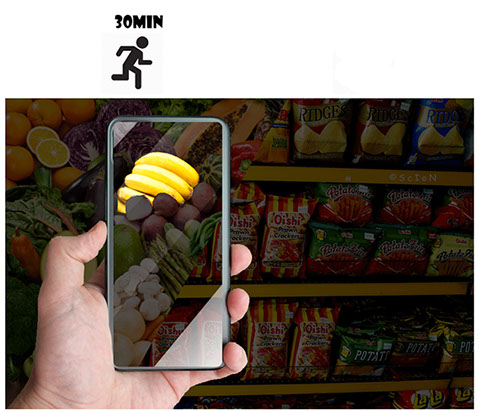
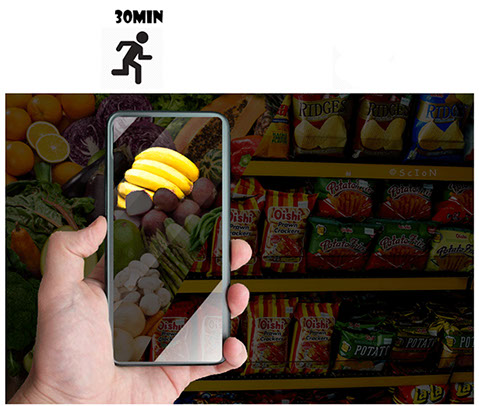
no message

diff --git a/css/healthy-food-assistant.css b/css/healthy-food-assistant.css
@@ -1,1 +1,1 @@
-.version.healthy_food_assistant{color:#0000F5;background-color:#6F653F;}#page{z-index:1;min-height:438px;background-image:none;border-width:0px;border-color:#000000;background-color:transparent;padding-bottom:62px;width:100%;max-width:1920px;margin-left:auto;margin-right:auto;}#pu3408-4{z-index:5;width:0.01px;height:0px;padding-bottom:87px;margin-right:-10000px;margin-top:62px;}#u3408-4{z-index:5;width:236px;min-height:20px;background-color:transparent;color:#B5B5B5;font-size:18px;line-height:25px;font-family:Arial, Helvetica Neue, Helvetica, sans-serif;position:fixed;top:62px;left:50%;margin-left:-736px;}#u3414-4{z-index:9;width:236px;min-height:20px;border-color:#DEDEDE;background-color:transparent;color:#B5B5B5;font-size:18px;line-height:25px;font-family:Arial, Helvetica Neue, Helvetica, sans-serif;position:fixed;top:93px;left:50%;margin-left:-736px;}#u3408-4:hover p,#u3414-4:hover p{color:#6B6B6B;visibility:inherit;}#u3404-4{z-index:13;width:236px;min-height:20px;border-color:#DEDEDE;background-color:transparent;color:#B5B5B5;font-size:18px;line-height:25px;font-family:Arial, Helvetica Neue, Helvetica, sans-serif;position:fixed;top:124px;left:50%;margin-left:-736px;}#u3408-4:hover,#u3414-4:hover,#u3404-4.PamphletThumbSelected{padding-top:0px;padding-bottom:0px;min-height:20px;width:236px;margin:0px 0px 0px -736px;}#u3404-4.PamphletThumbSelected p{color:#666666;visibility:inherit;line-height:1.4;font-family:Arial, Helvetica Neue, Helvetica, sans-serif;}#u3921{z-index:40;width:39px;height:18px;position:relative;margin-right:-10000px;margin-top:1283px;margin-left:50%;left:-610px;}.ie #u3921{background-color:#FFFFFF;opacity:0.01;-ms-filter:"progid:DXImageTransform.Microsoft.Alpha(Opacity=1)";filter:alpha(opacity=1);margin-left:50%;left:-610px;}#pu3405{z-index:2;margin-right:-10000px;margin-top:62px;width:50%;margin-left:25%;}#u3405{z-index:2;width:1px;height:960px;border-width:0px;border-color:transparent;background-color:#000000;-webkit-transform:matrix(0,1,-1,0,481,479);-ms-transform:matrix(0,1,-1,0,481,479);transform:matrix(0,1,-1,0,481,479);top:-479px;margin-bottom:-480px;position:relative;margin-left:50%;left:0px;}#u3680-4{z-index:18;width:960px;min-height:34px;background-color:transparent;font-size:36px;line-height:43px;font-weight:bold;top:-461px;margin-bottom:-43px;position:relative;margin-left:50%;left:-480px;}#u3683{z-index:30;width:39px;height:12px;top:-418px;margin-bottom:-12px;position:relative;margin-left:50%;left:-480px;}.ie #u3683{background-color:#FFFFFF;opacity:0.01;-ms-filter:"progid:DXImageTransform.Microsoft.Alpha(Opacity=1)";filter:alpha(opacity=1);margin-left:50%;left:-480px;}#u3681-4{z-index:22;width:207px;min-height:23px;background-color:transparent;font-size:18px;line-height:22px;top:-406px;margin-bottom:-23px;position:relative;margin-left:50%;left:-480px;}#u3682-4{z-index:26;width:960px;min-height:68px;background-color:transparent;font-size:18px;text-align:justify;line-height:22px;top:-333px;margin-bottom:-88px;position:relative;margin-left:50%;left:-480px;}#u3942{z-index:43;width:337px;background-color:transparent;top:-227px;margin-bottom:-227px;position:relative;margin-left:50%;left:-169px;}#u3903-4{z-index:32;width:960px;background-color:transparent;font-size:18px;text-align:justify;line-height:22px;margin-top:50px;position:relative;margin-left:50%;left:-480px;}#u3933{z-index:41;width:380px;background-color:transparent;margin-top:40px;position:relative;margin-left:50%;left:-190px;}#u3967{z-index:47;width:1px;height:960px;border-width:0px;border-color:transparent;background-color:#000000;-webkit-transform:matrix(0,1,-1,0,481,479);-ms-transform:matrix(0,1,-1,0,481,479);transform:matrix(0,1,-1,0,481,479);top:-425px;margin-bottom:-480px;position:relative;margin-left:50%;left:0px;}#u3968-4{z-index:48;width:960px;min-height:34px;background-color:transparent;font-size:36px;line-height:43px;font-weight:bold;top:-407px;margin-bottom:-43px;position:relative;margin-left:50%;left:-480px;}#u3969-4{z-index:52;width:207px;min-height:23px;background-color:transparent;font-size:18px;line-height:22px;top:-352px;margin-bottom:-23px;position:relative;margin-left:50%;left:-480px;}#u3970-4{z-index:56;width:960px;min-height:46px;background-color:transparent;font-size:18px;text-align:justify;line-height:22px;top:-279px;margin-bottom:-66px;position:relative;margin-left:50%;left:-480px;}#u3960{z-index:45;width:915px;background-color:transparent;top:-188px;margin-bottom:-188px;position:relative;margin-left:50%;left:-458px;}#u3909-4{z-index:36;width:960px;background-color:transparent;font-size:18px;text-align:justify;line-height:22px;margin-top:25px;position:relative;margin-left:50%;left:-480px;}#u3985{z-index:61;width:712px;background-color:transparent;margin-top:24px;position:relative;margin-left:50%;left:-356px;}#u3982{z-index:60;width:39px;height:50px;position:relative;margin-left:50%;left:-20px;}.ie #u3982{background-color:#FFFFFF;opacity:0.01;-ms-filter:"progid:DXImageTransform.Microsoft.Alpha(Opacity=1)";filter:alpha(opacity=1);margin-left:50%;left:-20px;}#u3994{z-index:63;width:1px;height:960px;border-width:0px;border-color:transparent;background-color:#000000;-webkit-transform:matrix(0,1,-1,0,481,479);-ms-transform:matrix(0,1,-1,0,481,479);transform:matrix(0,1,-1,0,481,479);top:-479px;margin-bottom:-480px;position:relative;margin-left:50%;left:0px;}#u3995-4{z-index:64;width:960px;min-height:34px;background-color:transparent;font-size:36px;line-height:43px;font-weight:bold;top:-460px;margin-bottom:-43px;position:relative;margin-left:50%;left:-480px;}#u3996-4{z-index:68;width:207px;min-height:23px;background-color:transparent;font-size:18px;line-height:22px;top:-405px;margin-bottom:-23px;position:relative;margin-left:50%;left:-480px;}#u3997-4{z-index:72;width:960px;min-height:46px;background-color:transparent;font-size:18px;text-align:justify;line-height:22px;top:-332px;margin-bottom:-46px;position:relative;margin-left:50%;left:-480px;}#u3409{z-index:17;width:1px;height:960px;border-width:0px;border-color:transparent;background-color:#000000;-webkit-transform:matrix(0,1,-1,0,481,479);-ms-transform:matrix(0,1,-1,0,481,479);transform:matrix(0,1,-1,0,481,479);top:-203px;margin-bottom:-480px;position:relative;margin-left:50%;left:0px;}#u3402{z-index:3;width:56px;background-color:transparent;position:fixed;top:62px;left:50%;margin-left:512px;}#u3684{z-index:31;width:39px;height:50px;position:relative;margin-right:-10000px;margin-top:1669px;margin-left:50%;left:1120px;}.ie #u3684{background-color:#FFFFFF;opacity:0.01;-ms-filter:"progid:DXImageTransform.Microsoft.Alpha(Opacity=1)";filter:alpha(opacity=1);margin-left:50%;left:1120px;}.css_verticalspacer .verticalspacer{height:calc(100vh - 2929px);}#muse_css_mq,.html{background-color:#FFFFFF;}body{position:relative;min-width:320px;}
+.version.healthy_food_assistant{color:#000010;background-color:#95439D;}#page{z-index:1;min-height:438px;background-image:none;border-width:0px;border-color:#000000;background-color:transparent;padding-bottom:62px;width:100%;max-width:1920px;margin-left:auto;margin-right:auto;}#pu3402{z-index:3;width:0.01px;height:0px;padding-bottom:87px;margin-right:-10000px;margin-top:62px;}#u3402{z-index:3;width:56px;background-color:transparent;position:fixed;top:62px;left:50%;margin-left:512px;}#u3408-4{z-index:5;width:236px;min-height:20px;background-color:transparent;color:#B5B5B5;font-size:18px;line-height:25px;font-family:Arial, Helvetica Neue, Helvetica, sans-serif;position:fixed;top:62px;left:50%;margin-left:-736px;}#u3414-4{z-index:9;width:236px;min-height:20px;border-color:#DEDEDE;background-color:transparent;color:#B5B5B5;font-size:18px;line-height:25px;font-family:Arial, Helvetica Neue, Helvetica, sans-serif;position:fixed;top:93px;left:50%;margin-left:-736px;}#u3408-4:hover p,#u3414-4:hover p{color:#6B6B6B;visibility:inherit;}#u3404-4{z-index:13;width:236px;min-height:20px;border-color:#DEDEDE;background-color:transparent;color:#B5B5B5;font-size:18px;line-height:25px;font-family:Arial, Helvetica Neue, Helvetica, sans-serif;position:fixed;top:124px;left:50%;margin-left:-736px;}#u3408-4:hover,#u3414-4:hover,#u3404-4.PamphletThumbSelected{padding-top:0px;padding-bottom:0px;min-height:20px;width:236px;margin:0px 0px 0px -736px;}#u3404-4.PamphletThumbSelected p{color:#666666;visibility:inherit;line-height:1.4;font-family:Arial, Helvetica Neue, Helvetica, sans-serif;}#pu3405{z-index:2;margin-right:-10000px;margin-top:62px;width:50.21%;margin-left:24.9%;}#u3405{z-index:2;width:1px;height:960px;border-width:0px;border-color:transparent;background-color:#000000;-webkit-transform:matrix(0,1,-1,0,481,479);-ms-transform:matrix(0,1,-1,0,481,479);transform:matrix(0,1,-1,0,481,479);top:-479px;margin-bottom:-480px;position:relative;margin-left:50%;left:0px;}#u3680-4{z-index:18;width:960px;min-height:34px;background-color:transparent;font-size:36px;line-height:43px;font-weight:bold;top:-461px;margin-bottom:-43px;position:relative;margin-left:50%;left:-480px;}#u3683{z-index:30;width:39px;height:12px;top:-418px;margin-bottom:-12px;position:relative;margin-left:50%;left:-480px;}.ie #u3683{background-color:#FFFFFF;opacity:0.01;-ms-filter:"progid:DXImageTransform.Microsoft.Alpha(Opacity=1)";filter:alpha(opacity=1);margin-left:50%;left:-480px;}#u3681-4{z-index:22;width:207px;min-height:23px;background-color:transparent;font-size:18px;line-height:22px;top:-406px;margin-bottom:-23px;position:relative;margin-left:50%;left:-480px;}#u3682-4{z-index:26;width:960px;min-height:68px;background-color:transparent;font-size:18px;text-align:justify;line-height:22px;top:-333px;margin-bottom:-88px;position:relative;margin-left:50%;left:-480px;}#u3942{z-index:41;width:337px;background-color:transparent;top:-227px;margin-bottom:-227px;position:relative;margin-left:50%;left:-169px;}#u3903-4{z-index:31;width:960px;background-color:transparent;font-size:18px;text-align:justify;line-height:22px;margin-top:50px;position:relative;margin-left:50%;left:-480px;}#u4021{z-index:84;width:39px;height:25px;position:relative;margin-left:50%;left:57px;}.ie #u4021{background-color:#FFFFFF;opacity:0.01;-ms-filter:"progid:DXImageTransform.Microsoft.Alpha(Opacity=1)";filter:alpha(opacity=1);margin-left:50%;left:57px;}#u3933{z-index:39;width:380px;background-color:transparent;position:relative;margin-left:50%;left:-190px;}#u3967{z-index:45;width:1px;height:960px;border-width:0px;border-color:transparent;background-color:#000000;-webkit-transform:matrix(0,1,-1,0,481,479);-ms-transform:matrix(0,1,-1,0,481,479);transform:matrix(0,1,-1,0,481,479);top:-428px;margin-bottom:-480px;position:relative;margin-left:50%;left:0px;}#u3968-4{z-index:46;width:960px;min-height:34px;background-color:transparent;font-size:36px;line-height:43px;font-weight:bold;top:-410px;margin-bottom:-43px;position:relative;margin-left:50%;left:-480px;}#u3969-4{z-index:50;width:207px;min-height:23px;background-color:transparent;font-size:18px;line-height:22px;top:-337px;margin-bottom:-23px;position:relative;margin-left:50%;left:-480px;}#u3970-4{z-index:54;width:960px;min-height:46px;background-color:transparent;font-size:18px;text-align:justify;line-height:22px;top:-282px;margin-bottom:-66px;position:relative;margin-left:50%;left:-480px;}#u3960{z-index:43;width:915px;background-color:transparent;top:-191px;margin-bottom:-191px;position:relative;margin-left:50%;left:-458px;}#u3909-4{z-index:35;width:960px;background-color:transparent;font-size:18px;text-align:justify;line-height:22px;margin-top:25px;position:relative;margin-left:50%;left:-480px;}#u3985{z-index:59;width:712px;background-color:transparent;margin-top:24px;position:relative;margin-left:50%;left:-356px;}#u3994{z-index:61;width:1px;height:960px;border-width:0px;border-color:transparent;background-color:#000000;-webkit-transform:matrix(0,1,-1,0,481,479);-ms-transform:matrix(0,1,-1,0,481,479);transform:matrix(0,1,-1,0,481,479);top:-429px;margin-bottom:-480px;position:relative;margin-left:50%;left:0px;}#u3995-4{z-index:62;width:960px;min-height:34px;background-color:transparent;font-size:36px;line-height:43px;font-weight:bold;top:-410px;margin-bottom:-43px;position:relative;margin-left:50%;left:-480px;}#u3996-4{z-index:66;width:207px;min-height:23px;background-color:transparent;font-size:18px;line-height:22px;top:-337px;margin-bottom:-23px;position:relative;margin-left:50%;left:-480px;}#u3997-6{z-index:70;width:960px;min-height:70px;background-color:transparent;font-size:18px;text-align:justify;line-height:22px;top:-282px;margin-bottom:-88px;position:relative;margin-left:50%;left:-480px;}#u4012{z-index:82;width:953px;background-color:transparent;top:-169px;margin-bottom:-169px;position:relative;margin-left:50%;left:-477px;}#u4009-6{z-index:76;width:960px;min-height:114px;background-color:transparent;font-size:18px;text-align:justify;line-height:22px;margin-top:50px;position:relative;margin-left:50%;left:-479px;}#pu4024{z-index:85;margin-top:29px;width:100%;margin-left:0%;}#u4024{z-index:85;width:479px;background-color:transparent;position:relative;margin-right:-10000px;margin-top:1px;margin-left:50%;left:-479px;}#u4033{z-index:87;width:488px;background-color:transparent;position:relative;margin-right:-10000px;margin-left:50%;left:-4px;}#u4033_img{margin-bottom:-12px;}#u4042{z-index:89;width:1px;height:960px;border-width:0px;border-color:transparent;background-color:#000000;-webkit-transform:matrix(0,1,-1,0,481,479);-ms-transform:matrix(0,1,-1,0,481,479);transform:matrix(0,1,-1,0,481,479);top:-431px;margin-bottom:-480px;position:relative;margin-left:50%;left:0px;}#u4043-4{z-index:90;width:960px;min-height:34px;background-color:transparent;font-size:36px;line-height:43px;font-weight:bold;top:-413px;margin-bottom:-43px;position:relative;margin-left:50%;left:-480px;}#u4044-4{z-index:94;width:207px;min-height:23px;background-color:transparent;font-size:18px;line-height:22px;top:-340px;margin-bottom:-23px;position:relative;margin-left:50%;left:-480px;}#u4045-6{z-index:98;width:960px;min-height:67px;background-color:transparent;font-size:18px;text-align:justify;line-height:22px;top:-285px;margin-bottom:-88px;position:relative;margin-left:50%;left:-480px;}#u4072{z-index:108;background-color:transparent;top:-172px;margin-bottom:-172px;position:relative;width:92.64%;margin-left:3.69%;left:1px;}#u4072_img{width:100%;}#u4082-4{z-index:110;width:896px;min-height:6px;background-color:transparent;font-size:18px;text-align:center;line-height:22px;margin-top:25px;position:relative;margin-left:50%;left:-448px;}#pu4063{z-index:106;margin-top:25px;width:92.85%;margin-left:3.58%;}#u4063{z-index:106;width:426px;background-color:transparent;position:relative;margin-right:-10000px;margin-left:50%;left:-446.50000000000006px;}#u4054{z-index:104;width:428px;background-color:transparent;position:relative;margin-right:-10000px;margin-left:50%;left:21.499999999999964px;}#u4085-4{z-index:114;width:894px;min-height:6px;background-color:transparent;font-size:18px;text-align:center;line-height:22px;margin-top:25px;position:relative;margin-left:50%;left:-447px;}#u4088-6{z-index:118;width:960px;min-height:67px;background-color:transparent;font-size:18px;text-align:justify;line-height:22px;margin-top:25px;position:relative;margin-left:50%;left:-480px;}#u3997-2,#u4009-2,#u4045-2,#u4088-2{font-weight:bold;}#u4091{z-index:124;width:960px;min-height:644px;border-width:0px;border-color:transparent;background-color:transparent;margin-top:25px;position:relative;margin-left:50%;left:-480px;}#u4095-4{z-index:125;width:894px;min-height:6px;background-color:transparent;font-size:18px;text-align:center;line-height:22px;margin-top:26px;position:relative;margin-left:50%;left:-447px;}#u4082,#u4085,#u4095{text-align:center;}#u3409{z-index:17;width:1px;height:960px;border-width:0px;border-color:transparent;background-color:#000000;-webkit-transform:matrix(0,1,-1,0,481,479);-ms-transform:matrix(0,1,-1,0,481,479);transform:matrix(0,1,-1,0,481,479);top:-454px;margin-bottom:-480px;position:relative;margin-left:50%;left:0px;}#u3982{z-index:58;width:39px;height:50px;position:relative;margin-right:-10000px;margin-top:2045px;margin-left:50%;left:519px;}.ie #u3982{background-color:#FFFFFF;opacity:0.01;-ms-filter:"progid:DXImageTransform.Microsoft.Alpha(Opacity=1)";filter:alpha(opacity=1);margin-left:50%;left:519px;}.css_verticalspacer .verticalspacer{height:calc(100vh - 5622px);}#muse_css_mq,.html{background-color:#FFFFFF;}body{position:relative;min-width:320px;}

diff --git a/healthy-food-assistant.html b/healthy-food-assistant.html
@@ -17,73 +17,126 @@ if(typeof Muse == "undefined") window.Muse = {}; window.Muse.assets = {"required
   <title>Healthy Food Assistant</title>
   <!-- CSS -->
   <link rel="stylesheet" type="text/css" href="css/site_global.css?crc=444006867"/>
-  <link rel="stylesheet" type="text/css" href="css/healthy-food-assistant.css?crc=4117718335" id="pagesheet"/>
+  <link rel="stylesheet" type="text/css" href="css/healthy-food-assistant.css?crc=278217629" id="pagesheet"/>
    </head>
  <body>
 
   <div class="clearfix borderbox" id="page"><!-- group -->
-   <div class="clearfix grpelem" id="pu3408-4"><!-- group -->
+   <div class="clearfix grpelem" id="pu3402"><!-- group -->
+    <a class="nonblock nontext clip_frame" id="u3402" href="index.html"><!-- image --><img class="block" id="u3402_img" src="images/1.png?crc=4279088245" alt="" width="56" height="56"/></a>
     <a class="nonblock nontext clearfix" id="u3408-4" href="the-trapped-soul.html"><!-- content --><p>VR : The Trapped Soul</p></a>
     <a class="nonblock nontext clearfix" id="u3414-4" href="endless-darkness.html"><!-- content --><p>VR : Endless Darkness</p></a>
     <a class="nonblock nontext PamphletThumbSelected clearfix" id="u3404-4" href="healthy-food-assistant.html"><!-- content --><p>AR : Healthy Food Assistant</p></a>
    </div>
-   <div class="grpelem" id="u3921" data-sizePolicy="fixed" data-pintopage="page_fixedCenter"><!-- simple frame --></div>
    <div class="clearfix grpelem" id="pu3405"><!-- column -->
     <div class="colelem" id="u3405" data-mu-ie-matrix="progid:DXImageTransform.Microsoft.Matrix(M11=0,M12=-1,M21=1,M22=0,SizingMethod='auto expand')" data-mu-ie-matrix-dx="-479" data-mu-ie-matrix-dy="480" data-sizePolicy="fixed" data-pintopage="page_fixedCenter"><!-- simple frame --></div>
-    <div class="clearfix colelem" id="u3680-4" data-sizePolicy="fixed" data-pintopage="page_fixedCenter"><!-- content -->
+    <div class="clearfix colelem" id="u3680-4" data-sizePolicy="fixed" data-pintopage="page_fixedCenter" data-leftAdjustmentDoneBy="pu3405"><!-- content -->
      <p>Healthy Food Assistant</p>
     </div>
-    <div class="colelem" id="u3683" data-sizePolicy="fixed" data-pintopage="page_fixedCenter"><!-- simple frame --></div>
-    <div class="clearfix colelem" id="u3681-4" data-sizePolicy="fixed" data-pintopage="page_fixedCenter"><!-- content -->
+    <div class="colelem" id="u3683" data-sizePolicy="fixed" data-pintopage="page_fixedCenter" data-leftAdjustmentDoneBy="pu3405"><!-- simple frame --></div>
+    <div class="clearfix colelem" id="u3681-4" data-sizePolicy="fixed" data-pintopage="page_fixedCenter" data-leftAdjustmentDoneBy="pu3405"><!-- content -->
      <p>Time: 15th Nov 2019</p>
     </div>
-    <div class="clearfix colelem" id="u3682-4" data-sizePolicy="fixed" data-pintopage="page_fixedCenter"><!-- content -->
+    <div class="clearfix colelem" id="u3682-4" data-sizePolicy="fixed" data-pintopage="page_fixedCenter" data-leftAdjustmentDoneBy="pu3405"><!-- content -->
      <p>There is a close relationship between diet and health. So, today more and more people are starting to pay attention to how to select and cook food healthily, such as finding a recipe from books, the Internet or watching a video,&nbsp; paying more attention to how much calories they will obtain every day. So, I want to use AR to help people to develop a good healthy diet and I find the best user environment.</p>
     </div>
-    <div class="clip_frame colelem" id="u3942" data-sizePolicy="fixed" data-pintopage="page_fixedCenter"><!-- image -->
+    <div class="clip_frame colelem" id="u3942" data-sizePolicy="fixed" data-pintopage="page_fixedCenter" data-leftAdjustmentDoneBy="pu3405"><!-- image -->
      <img class="block" id="u3942_img" src="images/pasted%20image%20732x549.jpg?crc=117187376" alt="" width="337" height="253"/>
     </div>
-    <div class="clearfix colelem" id="u3903-4" data-sizePolicy="fixed" data-pintopage="page_fixedCenter"><!-- content -->
+    <div class="clearfix colelem" id="u3903-4" data-sizePolicy="fixed" data-pintopage="page_fixedCenter" data-leftAdjustmentDoneBy="pu3405"><!-- content -->
      <p>In the first, AR's unique feature is that it can combine virtual visual elements with real-world to express complex information clearly to make people understand easily and quickly. I think the supermarket is the best user scene，because a decision which food they want to buy always is made at that time.</p>
     </div>
-    <div class="clip_frame colelem" id="u3933" data-sizePolicy="fixed" data-pintopage="page_fixedCenter"><!-- image -->
+    <div class="colelem" id="u4021" data-sizePolicy="fixed" data-pintopage="page_fixedCenter" data-leftAdjustmentDoneBy="pu3405"><!-- simple frame --></div>
+    <div class="clip_frame colelem" id="u3933" data-sizePolicy="fixed" data-pintopage="page_fixedCenter" data-leftAdjustmentDoneBy="pu3405"><!-- image -->
      <img class="block" id="u3933_img" src="images/pasted%20image%20615x409.jpg?crc=448090016" alt="" width="380" height="253"/>
     </div>
     <div class="colelem" id="u3967" data-mu-ie-matrix="progid:DXImageTransform.Microsoft.Matrix(M11=0,M12=-1,M21=1,M22=0,SizingMethod='auto expand')" data-mu-ie-matrix-dx="-479" data-mu-ie-matrix-dy="480" data-sizePolicy="fixed" data-pintopage="page_fixedCenter"><!-- simple frame --></div>
-    <div class="clearfix colelem" id="u3968-4" data-sizePolicy="fixed" data-pintopage="page_fixedCenter"><!-- content -->
+    <div class="clearfix colelem" id="u3968-4" data-sizePolicy="fixed" data-pintopage="page_fixedCenter" data-leftAdjustmentDoneBy="pu3405"><!-- content -->
      <p>Healthy Food Assistant - Find Problems</p>
     </div>
-    <div class="clearfix colelem" id="u3969-4" data-sizePolicy="fixed" data-pintopage="page_fixedCenter"><!-- content -->
+    <div class="clearfix colelem" id="u3969-4" data-sizePolicy="fixed" data-pintopage="page_fixedCenter" data-leftAdjustmentDoneBy="pu3405"><!-- content -->
      <p>Time: 23th Nov 2019</p>
     </div>
-    <div class="clearfix colelem" id="u3970-4" data-sizePolicy="fixed" data-pintopage="page_fixedCenter"><!-- content -->
+    <div class="clearfix colelem" id="u3970-4" data-sizePolicy="fixed" data-pintopage="page_fixedCenter" data-leftAdjustmentDoneBy="pu3405"><!-- content -->
      <p>This week, I went to a supermarket as a consumer to do research and I find two problems. The first is difficult for people to remind the recipes information when they are shopping, which leads to people to fail to keep a good habit of buying healthy food. (If you want to cook healthy food, you&nbsp; have to make a note to remember ingredients information)</p>
     </div>
-    <div class="clip_frame colelem" id="u3960" data-sizePolicy="fixed" data-pintopage="page_fixedCenter"><!-- image -->
+    <div class="clip_frame colelem" id="u3960" data-sizePolicy="fixed" data-pintopage="page_fixedCenter" data-leftAdjustmentDoneBy="pu3405"><!-- image -->
      <img class="block" id="u3960_img" src="images/pasted%20image%202001x647.jpg?crc=152700787" alt="" width="915" height="296"/>
     </div>
-    <div class="clearfix colelem" id="u3909-4" data-sizePolicy="fixed" data-pintopage="page_fixedCenter"><!-- content -->
+    <div class="clearfix colelem" id="u3909-4" data-sizePolicy="fixed" data-pintopage="page_fixedCenter" data-leftAdjustmentDoneBy="pu3405"><!-- content -->
      <p>The second problem is that people can not get a clear relationship between food composition information and health.</p>
     </div>
-    <div class="clip_frame colelem" id="u3985" data-sizePolicy="fixed" data-pintopage="page_fixedCenter"><!-- image -->
+    <div class="clip_frame colelem" id="u3985" data-sizePolicy="fixed" data-pintopage="page_fixedCenter" data-leftAdjustmentDoneBy="pu3405"><!-- image -->
      <img class="block" id="u3985_img" src="images/pasted%20image%202161x1330.jpg?crc=3795224226" alt="" width="712" height="428"/>
     </div>
-    <div class="colelem" id="u3982" data-sizePolicy="fixed" data-pintopage="page_fixedCenter"><!-- simple frame --></div>
     <div class="colelem" id="u3994" data-mu-ie-matrix="progid:DXImageTransform.Microsoft.Matrix(M11=0,M12=-1,M21=1,M22=0,SizingMethod='auto expand')" data-mu-ie-matrix-dx="-479" data-mu-ie-matrix-dy="480" data-sizePolicy="fixed" data-pintopage="page_fixedCenter"><!-- simple frame --></div>
-    <div class="clearfix colelem" id="u3995-4" data-sizePolicy="fixed" data-pintopage="page_fixedCenter"><!-- content -->
-     <p>Healthy Food Assistant - Find Problems</p>
+    <div class="clearfix colelem" id="u3995-4" data-sizePolicy="fixed" data-pintopage="page_fixedCenter" data-leftAdjustmentDoneBy="pu3405"><!-- content -->
+     <p>Healthy Food Assistant - Solutions</p>
     </div>
-    <div class="clearfix colelem" id="u3996-4" data-sizePolicy="fixed" data-pintopage="page_fixedCenter"><!-- content -->
+    <div class="clearfix colelem" id="u3996-4" data-sizePolicy="fixed" data-pintopage="page_fixedCenter" data-leftAdjustmentDoneBy="pu3405"><!-- content -->
      <p>Time: 31th Nov 2019</p>
     </div>
-    <div class="clearfix colelem" id="u3997-4" data-sizePolicy="fixed" data-pintopage="page_fixedCenter"><!-- content -->
-     <p>To be continue ....</p>
+    <div class="clearfix colelem" id="u3997-6" data-sizePolicy="fixed" data-pintopage="page_fixedCenter" data-leftAdjustmentDoneBy="pu3405"><!-- content -->
+     <p id="u3997-2">Solution 1:</p>
+     <p>For the first problem that last week found, a good solution is that using AR makes a visual food net information when the consumer is buying food ingredients. it is convenient and efficient for people to buy food, which affects them directly the behaviour of shopping to help them develop a good diet habit.</p>
+    </div>
+    <div class="clip_frame colelem" id="u4012" data-sizePolicy="fixed" data-pintopage="page_fixedCenter" data-leftAdjustmentDoneBy="pu3405"><!-- image -->
+     <img class="block" id="u4012_img" src="images/pasted%20image%202231x1084.jpg?crc=4250919729" alt="" width="953" height="463"/>
+    </div>
+    <div class="clearfix colelem" id="u4009-6" data-sizePolicy="fixed" data-pintopage="page_fixedCenter" data-leftAdjustmentDoneBy="pu3405"><!-- content -->
+     <p id="u4009-2">Solution 2:</p>
+     <p>In order to help people to understand the relationship between energy obtained from food and healthy, I design a series of dynamic visual images for calories to build a visual connection between how many calories you obtain and how much time do I walking or running, which could notice people directly that they consume too many calories and increase awareness of doing exercise to keep balance calories in their body.</p>
+    </div>
+    <div class="clearfix colelem" id="pu4024"><!-- group -->
+     <div class="clip_frame grpelem" id="u4024" data-sizePolicy="fixed" data-pintopage="page_fixedCenter" data-leftAdjustmentDoneBy="pu4024"><!-- image -->
+      <img class="block" id="u4024_img" src="images/pasted%20image%201525x1027-crop-u4024.jpg?crc=464173089" alt="" width="479" height="406"/>
+     </div>
+     <div class="clip_frame clearfix grpelem" id="u4033" data-sizePolicy="fixed" data-pintopage="page_fixedCenter" data-leftAdjustmentDoneBy="pu4024"><!-- image -->
+      <img class="position_content" id="u4033_img" src="images/pasted%20image%201174x1001.jpg?crc=3832383217" alt="" width="488" height="416"/>
+     </div>
+    </div>
+    <div class="colelem" id="u4042" data-mu-ie-matrix="progid:DXImageTransform.Microsoft.Matrix(M11=0,M12=-1,M21=1,M22=0,SizingMethod='auto expand')" data-mu-ie-matrix-dx="-479" data-mu-ie-matrix-dy="480" data-sizePolicy="fixed" data-pintopage="page_fixedCenter"><!-- simple frame --></div>
+    <div class="clearfix colelem" id="u4043-4" data-sizePolicy="fixed" data-pintopage="page_fixedCenter" data-leftAdjustmentDoneBy="pu3405"><!-- content -->
+     <p>Healthy Food Assistant - Prototyping Process</p>
+    </div>
+    <div class="clearfix colelem" id="u4044-4" data-sizePolicy="fixed" data-pintopage="page_fixedCenter" data-leftAdjustmentDoneBy="pu3405"><!-- content -->
+     <p>Time: 10th Dec 2019</p>
+    </div>
+    <div class="clearfix colelem" id="u4045-6" data-sizePolicy="fixed" data-pintopage="page_fixedCenter" data-leftAdjustmentDoneBy="pu3405"><!-- content -->
+     <p id="u4045-2">Visual Elements :</p>
+     <p>This week, I finished designing visual dynamic elements and making a prototype. All elements are composed of a series of simple lines because when people scan food as a background if the dynamic images are too complex,&nbsp; it is difficult for consumers to see clearly.</p>
+    </div>
+    <div class="clip_frame colelem" id="u4072" data-sizePolicy="fluidWidthHeight" data-pintopage="page_fixedCenter" data-leftAdjustmentDoneBy="pu3405"><!-- image -->
+     <img class="block" id="u4072_img" src="images/group7copy.png?crc=3960132182" alt="" data-heightwidthratio="0.49048152295632697" data-image-width="893" data-image-height="438"/>
+    </div>
+    <div class="clearfix colelem" id="u4082-4" data-sizePolicy="fixed" data-pintopage="page_fixedCenter" data-leftAdjustmentDoneBy="pu3405"><!-- content -->
+     <p><span id="u4082">Food Net Vidusl Elements</span></p>
+    </div>
+    <div class="clearfix colelem" id="pu4063"><!-- group -->
+     <div class="clip_frame grpelem" id="u4063" data-sizePolicy="fixed" data-pintopage="page_fixedCenter" data-leftAdjustmentDoneBy="pu4063"><!-- image -->
+      <img class="block" id="u4063_img" src="images/pasted%20image%20649x649.jpg?crc=3969449855" alt="" width="426" height="426"/>
+     </div>
+     <div class="clip_frame grpelem" id="u4054" data-sizePolicy="fixed" data-pintopage="page_fixedCenter" data-leftAdjustmentDoneBy="pu4063"><!-- image -->
+      <img class="block" id="u4054_img" src="images/pasted%20image%20649x645.jpg?crc=51490797" alt="" width="428" height="425"/>
+     </div>
+    </div>
+    <div class="clearfix colelem" id="u4085-4" data-sizePolicy="fixed" data-pintopage="page_fixedCenter" data-leftAdjustmentDoneBy="pu3405"><!-- content -->
+     <p><span id="u4085">Dynamic Visual Elements</span></p>
+    </div>
+    <div class="clearfix colelem" id="u4088-6" data-sizePolicy="fixed" data-pintopage="page_fixedCenter" data-leftAdjustmentDoneBy="pu3405"><!-- content -->
+     <p id="u4088-2">Assistant Prototype :</p>
+     <p>This prototype is made by Unity 3D with Vuforia. Initially, I find a problem is that when you scan food the mobile phone's screen is too light to difficult to see dynamic visual elements, so I add a dark mask to make a visual contrast to improve the visibility of my visual elements.</p>
+    </div>
+    <div class="colelem" id="u4091"><!-- custom html -->
+     <iframe width="960" height="640" src="https://www.youtube.com/embed/YLArYSGjL4k" frameborder="0" allow="accelerometer; autoplay; encrypted-media; gyroscope; picture-in-picture" allowfullscreen></iframe>
+    </div>
+    <div class="clearfix colelem" id="u4095-4" data-sizePolicy="fixed" data-pintopage="page_fixedCenter" data-leftAdjustmentDoneBy="pu3405"><!-- content -->
+     <p><span id="u4095">AR Healthy Food Assistant Prototype</span></p>
     </div>
     <div class="colelem" id="u3409" data-mu-ie-matrix="progid:DXImageTransform.Microsoft.Matrix(M11=0,M12=-1,M21=1,M22=0,SizingMethod='auto expand')" data-mu-ie-matrix-dx="-479" data-mu-ie-matrix-dy="480" data-sizePolicy="fixed" data-pintopage="page_fixedCenter"><!-- simple frame --></div>
    </div>
-   <a class="nonblock nontext clip_frame" id="u3402" href="index.html"><!-- image --><img class="block" id="u3402_img" src="images/1.png?crc=4279088245" alt="" width="56" height="56"/></a>
-   <div class="grpelem" id="u3684" data-sizePolicy="fixed" data-pintopage="page_fixedCenter"><!-- simple frame --></div>
-   <div class="verticalspacer" data-offset-top="2868" data-content-above-spacer="2868" data-content-below-spacer="61" data-sizePolicy="fixed" data-pintopage="page_fixedLeft"></div>
+   <div class="grpelem" id="u3982" data-sizePolicy="fixed" data-pintopage="page_fixedCenter"><!-- simple frame --></div>
+   <div class="verticalspacer" data-offset-top="5562" data-content-above-spacer="5561" data-content-below-spacer="61" data-sizePolicy="fixed" data-pintopage="page_fixedLeft"></div>
   </div>
   <!-- Other scripts -->
   <script type="text/javascript">
